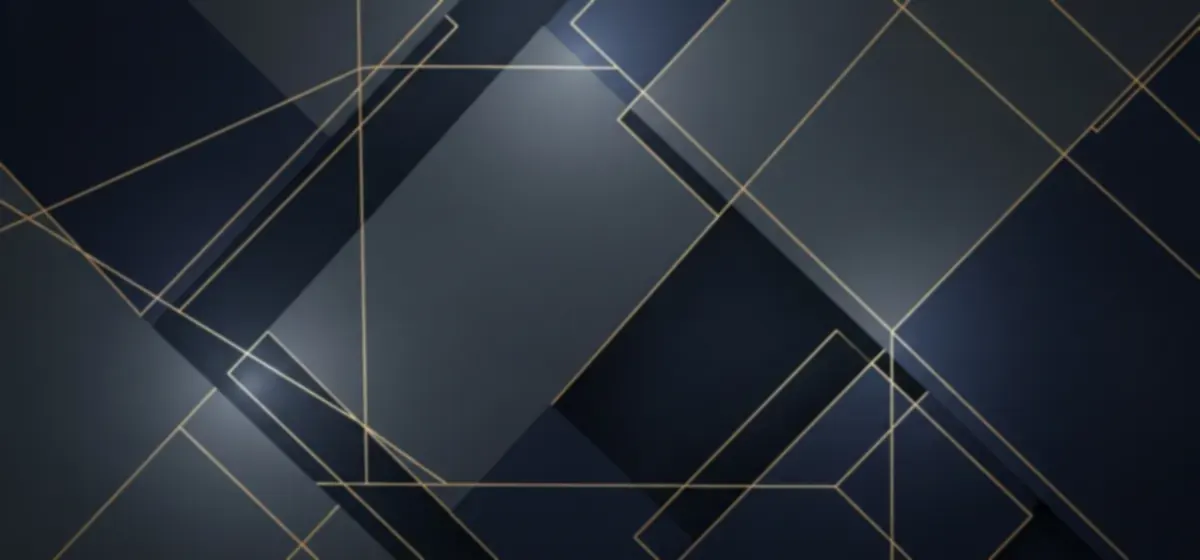
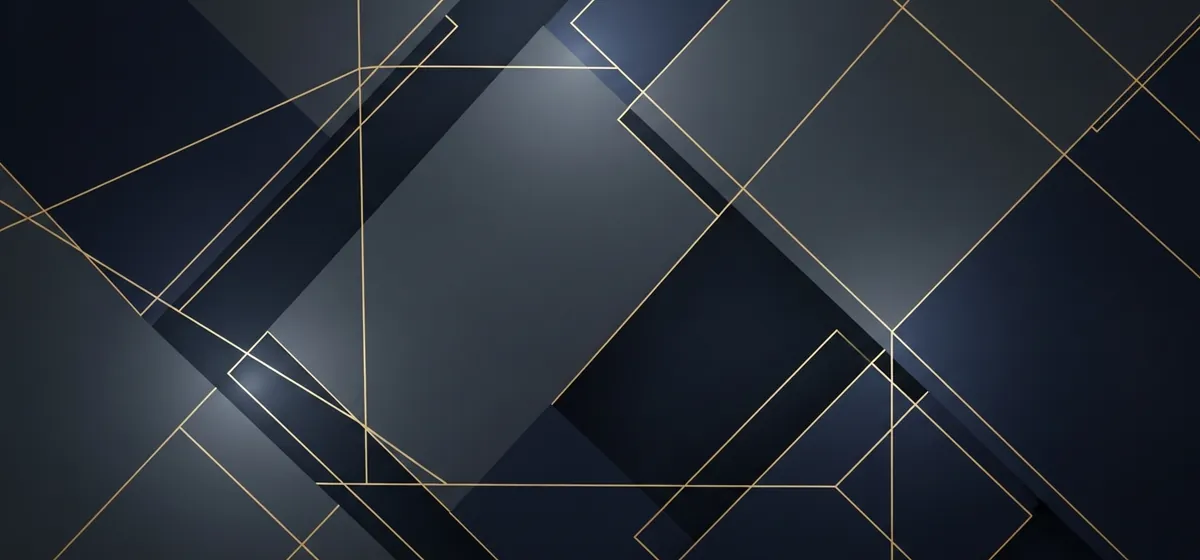
Name card background, new Shop photo; no glow on home tiles; weaker beginner bots; confirm-move cancel paddle; pictures on puzzle themes, home tiles, Play Chess; Endgames + Game Lookup restyled; photo-mode polish (no repeated thumbnails, Puzzles tile), photo credits page, admin AI-vs-photo image tog

diff --git a/artifacts/chess-coach/src/pages/DashboardRedesign.tsx b/artifacts/chess-coach/src/pages/DashboardRedesign.tsx
@@ -168,8 +168,8 @@ export function DashboardRedesign() {
         {/* ── Player summary ── */}
         <section className="relative overflow-hidden rounded-[20px] p-4 lg:col-span-2" style={{ background: CARD, border: `1px solid ${BORDER}` }}>
           {/* faint background picture behind the name card */}
-          <img src={siteImg(scene('profile-card'))} alt="" className="pointer-events-none absolute inset-0 h-full w-full object-cover" style={{ opacity: 0.22 }} />
-          <div className="pointer-events-none absolute inset-0" style={{ background: 'linear-gradient(90deg, rgba(11,18,19,.92) 0%, rgba(11,18,19,.6) 55%, rgba(11,18,19,.35) 100%)' }} />
+          <img src={siteImg(scene('profile-card'))} alt="" className="pointer-events-none absolute inset-0 h-full w-full object-cover" style={{ opacity: 0.6 }} />
+          <div className="pointer-events-none absolute inset-0" style={{ background: 'linear-gradient(90deg, rgba(11,18,19,.82) 0%, rgba(11,18,19,.5) 50%, rgba(11,18,19,.22) 100%), linear-gradient(0deg, rgba(11,18,19,.55) 0%, rgba(11,18,19,0) 45%)' }} />
           <div className="relative">
           <div className="flex items-center gap-3">
             <div className="relative shrink-0">
